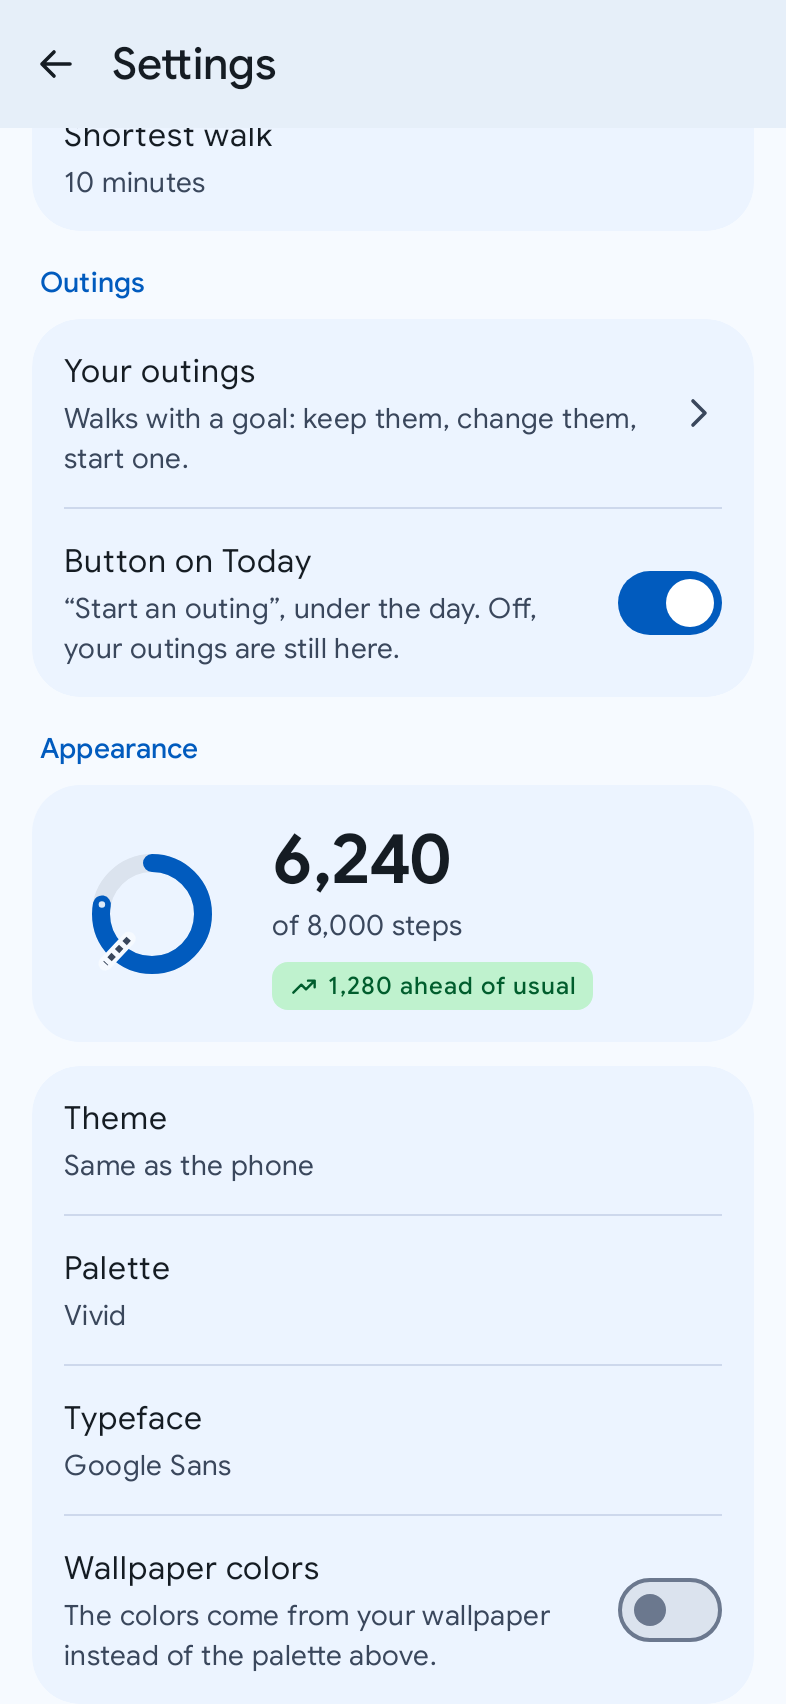
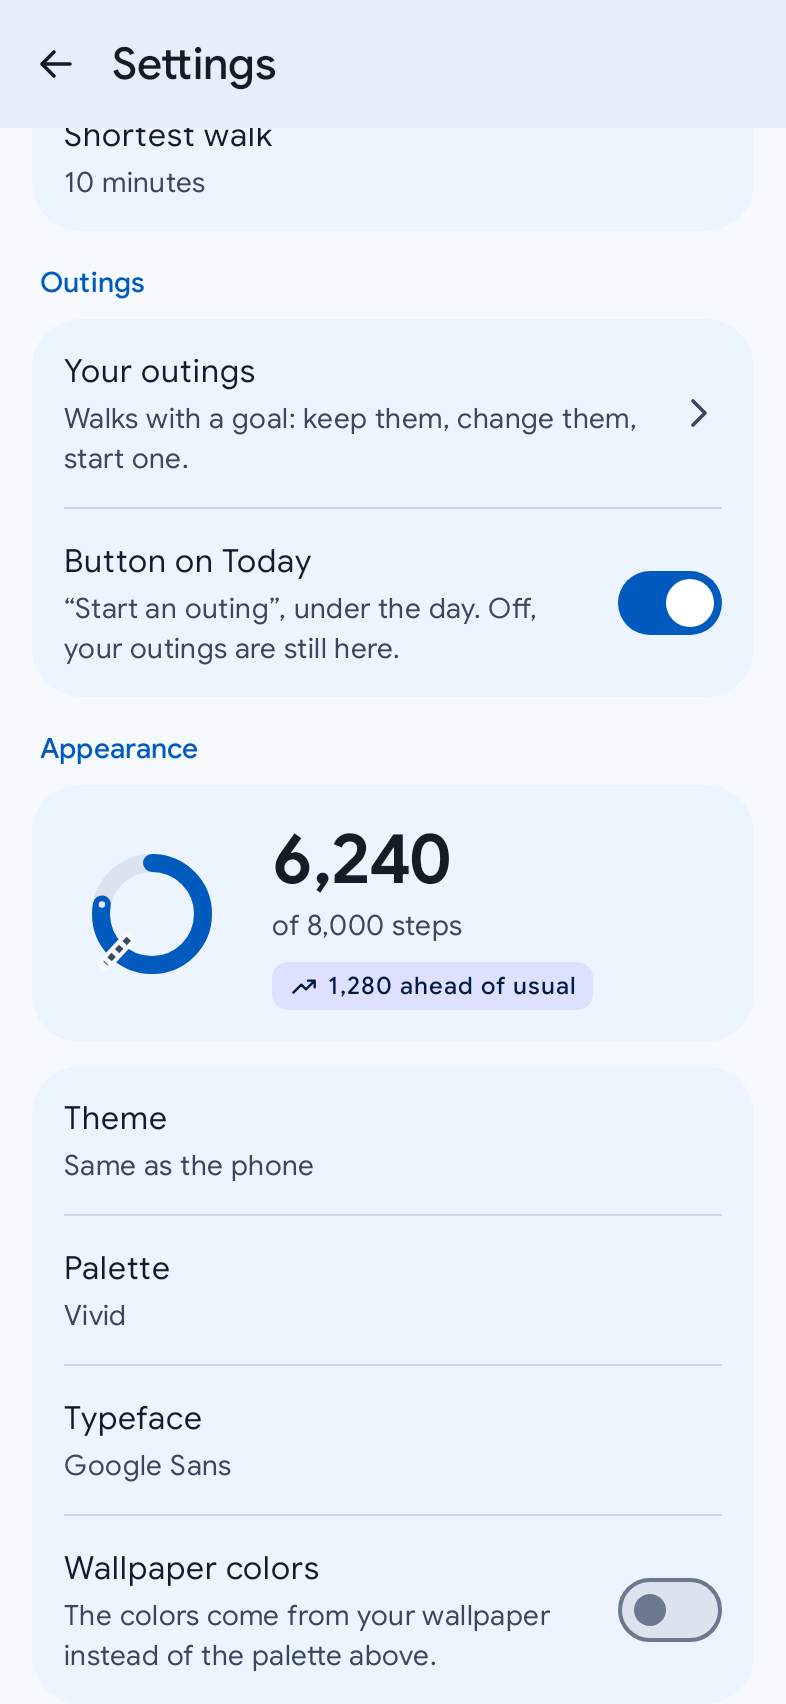
Settings preview and guide: in step with Today after its review
The appearance preview's "ahead of usual" chip moves from the goal's
green to the primary, as on Today, where green is a met goal's alone.
The guide says what the ring shows under the count, the color green
keeps for a goal reached, and what the line above the chart reads; its
sample ring shows the estimate under the count too.

Claude-Session: https://claude.ai/code/session_01FALMiYh7GTJiJLLnv3mfcz

Changed region(s): [[0.3359, 0.5599, 0.7634, 0.591]]

diff --git a/feature/settings/src/main/kotlin/com/callbackdev/passo/feature/settings/SettingsScreen.kt b/feature/settings/src/main/kotlin/com/callbackdev/passo/feature/settings/SettingsScreen.kt
@@ -741,8 +741,8 @@ private fun stepLengthValue(profile: Profile, lengths: StepLengths, format: Meas
 
 /**
  * The appearance, drawn with itself: a ring and a count in the reader's
- * palette and typeface, and the pace against a usual day in the goal's color, all consistent
- * with each other (a preview must not lie either). Every choice below changes it the
+ * palette and typeface, and the pace against a usual day in the primary, as Today draws it: green
+ * is the met goal's alone (a preview must not lie either). Every choice below changes it the
  * moment it is made. A picture, silent to a screen reader: the rows say every choice in words.
  */
 @Composable
@@ -780,8 +780,8 @@ private fun AppearancePreview(format: MeasureFormatter) {
                     color = MaterialTheme.colorScheme.onSurfaceVariant,
                 )
                 Surface(
-                    color = PassoTheme.colors.goalContainer,
-                    contentColor = PassoTheme.colors.goal,
+                    color = MaterialTheme.colorScheme.primaryContainer,
+                    contentColor = MaterialTheme.colorScheme.onPrimaryContainer,
                     shape = MaterialTheme.shapes.small,
                     modifier = Modifier.padding(top = 6.dp),
                 ) {

diff --git a/feature/guide/src/main/kotlin/com/callbackdev/passo/feature/guide/GuideScreen.kt b/feature/guide/src/main/kotlin/com/callbackdev/passo/feature/guide/GuideScreen.kt
@@ -294,6 +294,14 @@ private fun RingSample(format: MeasureFormatter) {
                     style = MaterialTheme.typography.bodySmall,
                     color = MaterialTheme.colorScheme.onSurfaceVariant,
                 )
+                Text(
+                    stringResource(
+                        R.string.guide_sample_ring_distance,
+                        format.distance(SAMPLE_STEPS * SAMPLE_STEP_LENGTH_M).text(),
+                    ),
+                    style = MaterialTheme.typography.labelMedium,
+                    color = MaterialTheme.colorScheme.primary,
+                )
             }
         }
     }

diff --git a/PLANNING.md b/PLANNING.md
@@ -1479,6 +1479,7 @@ Include:
 - **Five of the six stages left with a name** (owner, 14 Oct 2026). Five of the six now have a sentence under the same rules, each checked in two sources (two Wikipedias, or one and an official source): Echevennoz in the English, French and Italian Wikipedias on Étroubles, its comune (the Roman Restapolis); Medesano in the English article on the Via Francigena and the Italian on Medesano (Sigeric's Metane: Costamezzana in the one, Medesano itself in the other, so "or a village close by"); Cassio in the Italian Wikipedia's Salti del Diavolo and the Emilia-Romagna region's geological museum garden; El Burgo Ranero in the German Wikipedia and the Association of Municipalities of the Camino de Santiago (Domenico Laffi's straw huts, without the German's year, 1673); Poggio San Lorenzo in the German Wikipedia and italia.it, the Ministry of Tourism's site (the church's late 16th-century Martyrdom of Saint Lawrence). Left out where only one says it: Charles VIII's night at Medesano after Fornovo, the Salti's height and legend, the frogs in El Burgo Ranero's name, Poggio San Lorenzo's Roman walls, which the two place differently. Vilarinho still keeps only its name: the one Wikipedia that tells of the Dom Zameiro bridge past it, over the Ave, is the English article on the Portuguese Way, and no second source was found.
 
 - **Today, after its review** (owner, 14 Oct 2026: "implement the four main suggestions"). Five changes from a review of the screen's design. (1) `TilePair` gives both tiles the taller one's height (their intrinsic height at the share), so a meaning that wraps in one tile and not the other no longer leaves the pair's bottoms at two heights, on every page that pairs tiles. (2) A line of the day's estimates under the sentence («Estimated: 5.80 km · 219 kcal · 48 min active»), meant to answer "how far" on the first screen, was taken out again (owner, the same day, on a phone): it pushed «Your day» off the first screen. The two go inside the ring instead (owner: "put the distance, and the calories if they fit, where the 78% was"), «≈ 5.80 km · 219 kcal» under «of 10,000 steps», in the primary and in the goal's green once it is met; the calories go when the pair would not fit the ring on one line (a large text size). The percentage only repeated the arc and the count, and stays in the ring's spoken description, where the arc cannot be seen. «Goal reached» under the count goes too: the sentence says it with the time, and the check moves beside «of 10,000 steps», so a met goal is still never the color alone. (3) The ring's usual-day notch is dashed in `onSurfaceVariant`, the ink and dash of the chart's usual day, where it was a solid bar in `onSurface` that read as a cut; past the goal the ring starts a second lap, a line at 40% of the ring's width in the goal's container color, up to twice the goal; and the leading dot is only on a ring still filling, where it sat at the top of a closed one as a leftover. The guide's paragraph on the ring says both. (4) Green is the met goal's alone: the headline's "ahead of your usual pace" mark is the primary, and «Start an outing» a tonal button in the primary container, where the secondary's warm tone outshouted the day. (5) «Your day» starts at 05:00, or on the hour of the first steps (today's or a usual day's) when they come earlier (`DayTrend.startMinute`): the flat small hours took a quarter of its width and squeezed the walks into the rest; the totals still run from midnight, and a total walked before the start is where the lines begin. Its hour labels are 6, 12 and 18, with none at the right edge, where midnight repeated the left's («12 AM» twice in English). The area under today's line is stronger on a dark ground (45% of the primary, 28% in light), where it read as grey. The readout above it, when no finger is on the chart, leaves out today's count, which the ring says just above, and keeps the usual day's; without a usual day the count stays. The guide's paragraph on the chart says where it starts. (ADR 0004, decision 7)
+- **Today's review, checked on screenshots** (owner, 14 Oct 2026, once the sandbox could build). Every change above draws as meant on a phone, an open foldable and at twice the text size, light and dark. Two loose ends, fixed: the appearance preview in Settings still wore the goal's green on its «ahead of usual» chip, now the primary as on Today (owner: "bring it to the primary there too"); and the guide now says what the ring shows under the count (the estimates, with «≈»), that green is a met goal's alone, and what the line above the chart reads, with the estimate under the guide's own sample ring.
 
 ### Open
 
